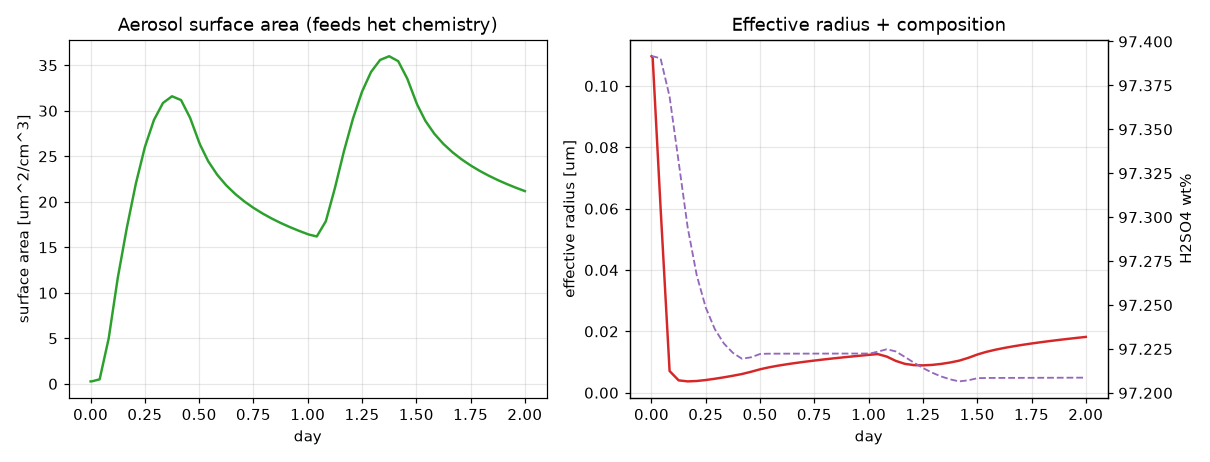
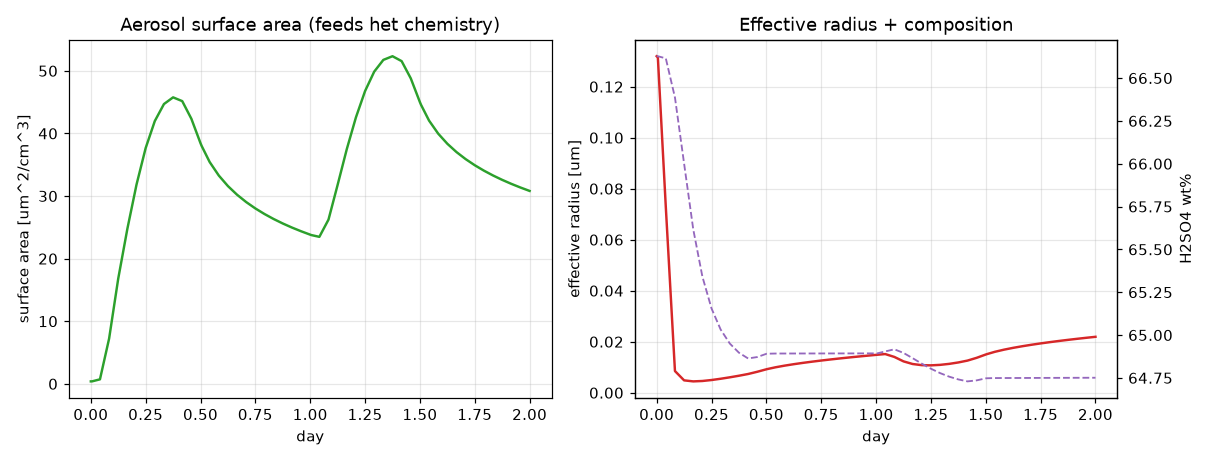
Phase 3 fix (Lens-1): aerosol_props must use the TOMAS step's water scheme
The diagnostics recomputed wet water with calc_equilibrium_water (ISORROPIA/
NH4HSO4 default, x1.2) while the coupled TOMAS step evolves particles with
water_scheme='h2so4_tabazadeh' (AD-3.6). That fed SA / effective radius / H2SO4
wt% to the het chemistry on a DIFFERENT water field than the particles TOMAS
actually carried (measured 1.3-1.8x SA error). Switch _wet_diameters_m to
calc_equilibrium_water_h2so4(Mk, rh, temp) so the diagnostics match the step;
h2so4_weight_pct now equals the Tabazadeh wt% self-consistently. Caught by the
correctness-lens verification agent before the phase gate (AD-3.11). Also fix
the stale AD-3.8 code citation (executed path is _condensation_step_core).

Refreshed validation: SA 0.39->30.8 um^2/cm^3, wt% ~66% (was an inconsistent
97%), total-S drift -8.9e-4 (unchanged, TOMAS-internal).

diff --git a/coupled/aerosol_props.py b/coupled/aerosol_props.py
@@ -21,15 +21,21 @@ from . import tomas_bridge as tb   # sets tomas_jax on sys.path; exposes SRTSO4/
 
 import jax.numpy as jnp  # noqa: E402
 from tomas_jax.physics.properties import calc_particle_properties  # noqa: E402
-from tomas_jax.physics.water_equilibrium import calc_equilibrium_water  # noqa: E402
+from tomas_jax.physics.water_equilibrium import calc_equilibrium_water_h2so4  # noqa: E402
 
 _SRTSO4 = tb.SRTSO4
 _SRTH2O = tb.SRTH2O
 
 
 def _wet_diameters_m(state):
-    """Per-bin WET particle diameter [m] (equilibrium water added at ``SRTH2O``)."""
-    Mk_wet = calc_equilibrium_water(state.Mk, state.rh)
+    """Per-bin WET particle diameter [m] (equilibrium water added at ``SRTH2O``).
+
+    Uses the **Tabazadeh (pure H2SO4/H2O)** water scheme -- the SAME ``water_scheme='h2so4_tabazadeh'``
+    the coupled TOMAS step evolves (tomas_bridge, AD-3.6). Using the ISORROPIA/NH4HSO4 default here
+    instead would compute SA / radius / wt% on a DIFFERENT water field than the particles TOMAS carries
+    (measured 1.3-1.8x SA error) -- so the diagnostics must match the step's scheme.
+    """
+    Mk_wet = calc_equilibrium_water_h2so4(state.Mk, state.rh, state.temp)
     Dpk, _Dk, _ck = calc_particle_properties(state.Nk, Mk_wet, state.temp, state.pres)
     return Dpk, Mk_wet
 

diff --git a/docs/AUTONOMOUS_DECISIONS.md b/docs/AUTONOMOUS_DECISIONS.md
@@ -101,7 +101,8 @@ the tomas-jax examples so cross-checks against them are apples-to-apples.
 **Q:** Is TOMAS's aerosol sulfate mass stored as SO4 (96 g/mol) or H2SO4 (98 g/mol)? This drives both
 the heterogeneous-chem weight-percent and the Phase-3.5 sulfur budget.
 **Decision:** Treat `Mk[:,SRTSO4]` as **H2SO4-equivalent mass** (MW 98).
-**Rationale:** verified in `tomas_jax/solvers/condensation.py:192-211` — condensation moves the gaseous
+**Rationale:** verified in `tomas_jax/solvers/condensation.py` `_condensation_step_core` (the JIT path
+actually run, ~lines 246-308; the numpy path at 192-211 is deprecated) — condensation moves the gaseous
 H2SO4 mass (`Gc[SRTSO4]`, MW 98) into `Mk[:,SRTSO4]` **1:1** with no MW conversion, and normal-branch
 nucleation depletes gas by exactly the SO4 mass it adds. So particulate sulfur (kg) equals the H2SO4
 mass condensed/nucleated; the weight-percent is `100·M_SO4/(M_SO4+M_H2O)` with `M_SO4` taken directly,
@@ -124,6 +125,18 @@ drift is bounded at TOMAS's own level (test tolerance ~2e-2/day) and that the ph
 is the H2SO4 sink, SA grows). **FLAGGED FOR USER** (see OPEN below) and tracked in DEFERRED.md:
 investigating/fixing tomas-jax's microphysics mass conservation is a tomas-jax change, out of scope for
 the coupling layer.
+
+### AD-3.11 — aerosol_props must use the SAME water scheme as the TOMAS step (bug fix from Lens-1)
+**Q:** The diagnostics (`aerosol_props._wet_diameters_m`) recompute equilibrium water to get wet SA /
+radius / wt%. Which water scheme?
+**Finding (Lens-1 verification):** the diagnostics initially used `calc_equilibrium_water` (the
+ISORROPIA/NH4HSO4 default, ×1.2 factor) while the coupled TOMAS step evolves the particles with
+`water_scheme='h2so4_tabazadeh'` (AD-3.6). Two different water fields → the SA/radius/wt% fed to the
+het chemistry did not match the particles TOMAS carried (measured 1.3-1.8× SA error across RH).
+**Decision/Fix:** `aerosol_props._wet_diameters_m` now uses `calc_equilibrium_water_h2so4(Mk, rh, temp)`
+— the Tabazadeh binary H2SO4/H2O scheme — matching the step. A consequence: `h2so4_weight_pct` now
+equals the Tabazadeh `wt%` exactly (self-consistent), and SA/radius are on the same water basis TOMAS
+uses. Caught by the correctness-lens agent; fixed before the phase gate.
 
 _(further Phase-3 decisions appended as they arise)_
 
